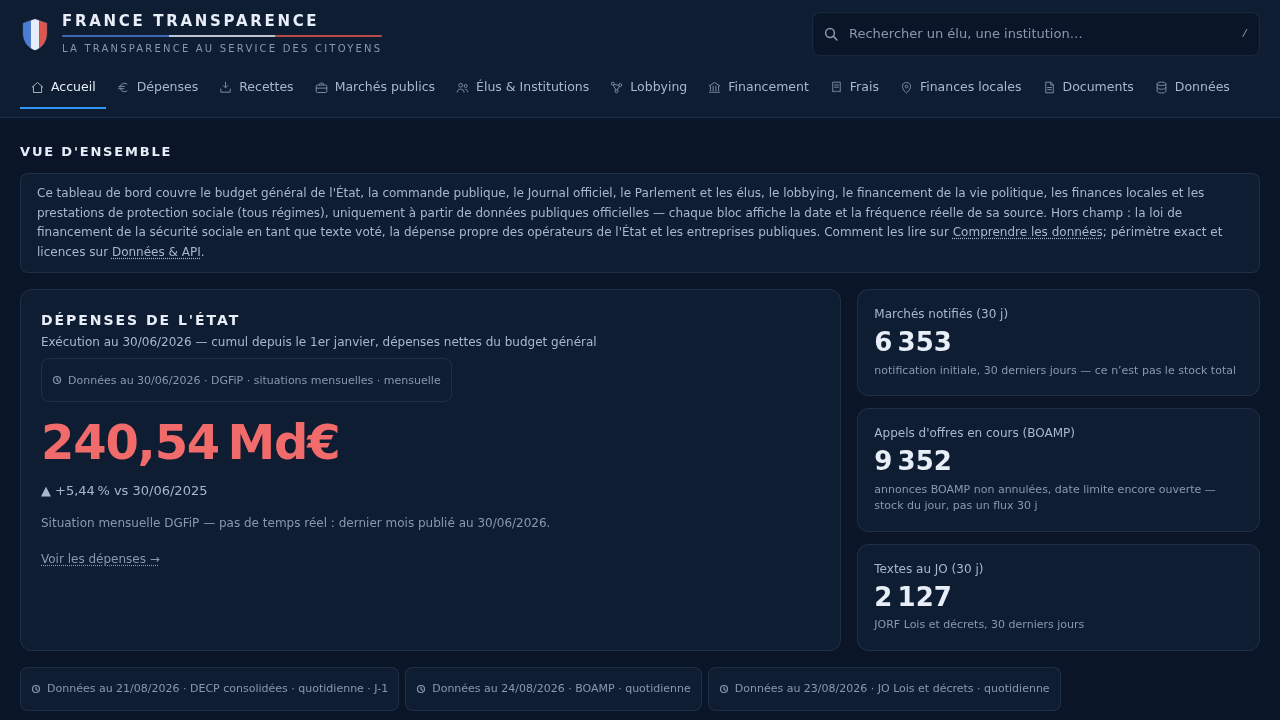
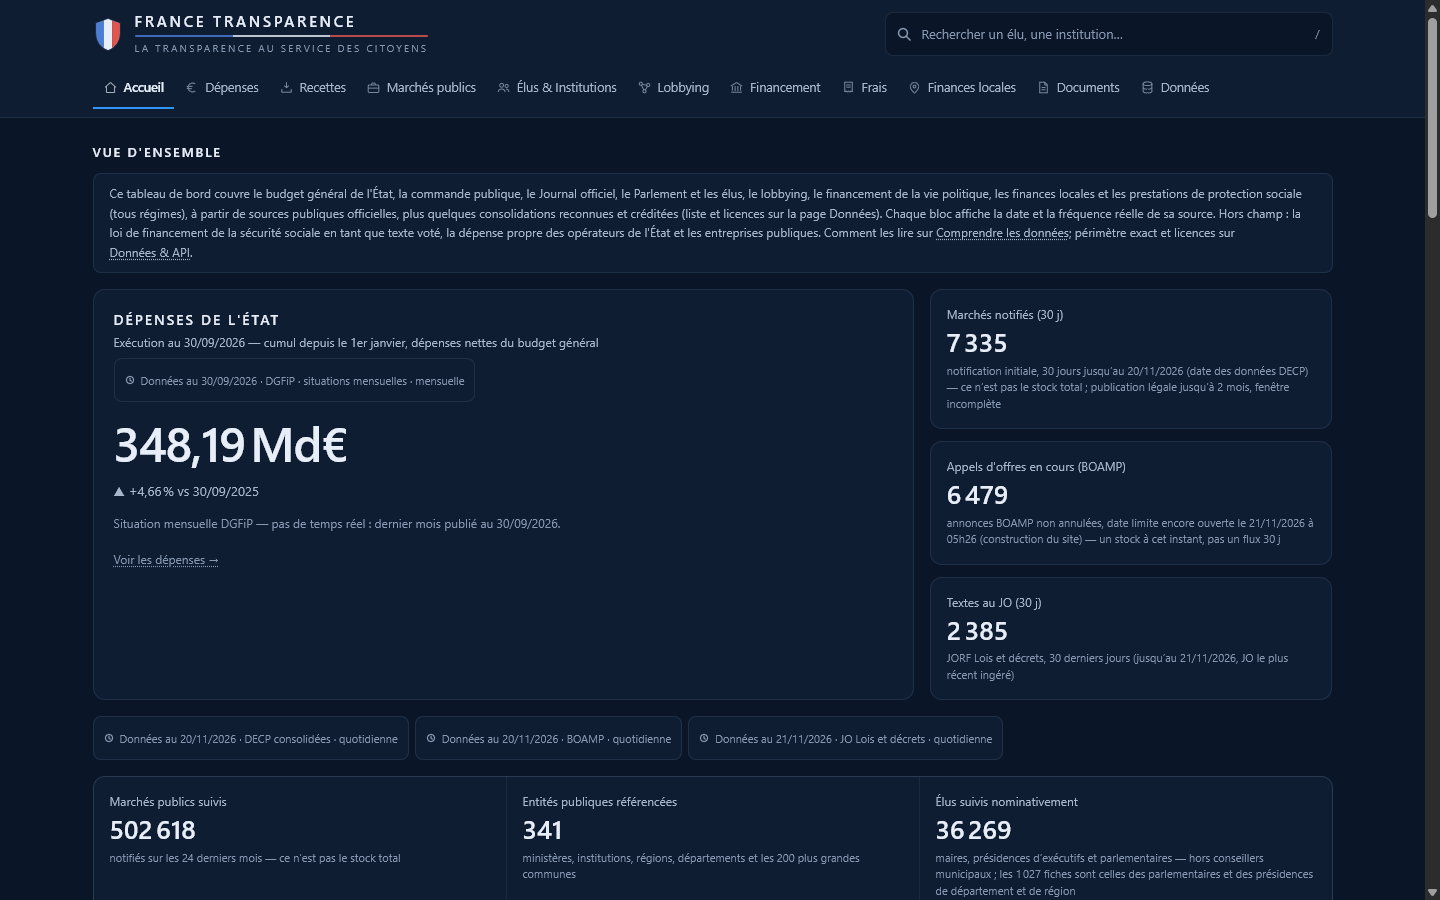
README : sections dans l'ordre d'un projet de données publiques, et captures de l'accueil et de /donnees prises le 21/11 à la place de celles du 24/08
Badges de licence, de CI et du site, sommaire, principes, sources et méthode, schéma de la chaîne, démarrage rapide, tests, contribution, signalement, sécurité, licences et documentation. Les faits du README sont inchangés. Les 30 captures d'avant le 20/11, que plus aucun document ne cite, sont retirées.

diff --git a/README.md b/README.md
@@ -1,10 +1,30 @@
 # France Transparence
 
-Site d'information sur l'argent public et la vie politique en France, en ligne sur **https://francetransparence.fr**. Il rassemble des publications de l'État, des assemblées et des autorités indépendantes, et affiche pour chacune son producteur, sa licence et la date réelle de ses données.
+Site d'information sur l'argent public et la vie politique en France. Il rassemble des publications de l'État, des assemblées et des autorités indépendantes, et affiche pour chacune son producteur, sa licence et la date réelle de ses données.
 
-Les données viennent de **sources publiques officielles, plus quelques consolidations reconnues et créditées**. Elles sont étiquetées comme telles sur la page [`/donnees`](https://francetransparence.fr/donnees/) (voir « D'où viennent les données »).
+**Site : https://francetransparence.fr**
 
-Le site publie des données et leurs règles de calcul. Il ne porte aucun jugement sur les personnes. Un indicateur dit ce qu'il mesure, avec sa règle et sa base légale, et rien de plus.
+[![Licence du code : AGPL-3.0-or-later](https://img.shields.io/badge/licence%20du%20code-AGPL--3.0--or--later-blue)](LICENSE)
+[![CI publication](https://github.com/koutakou/france-transparence/actions/workflows/publication.yml/badge.svg)](https://github.com/koutakou/france-transparence/actions/workflows/publication.yml)
+[![Site : francetransparence.fr](https://img.shields.io/badge/site-francetransparence.fr-002395)](https://francetransparence.fr)
+
+![Accueil de francetransparence.fr : la navigation en onze onglets, la vue d'ensemble et les premiers blocs de chiffres, chacun avec la date de ses données](docs/screenshots/accueil.png)
+
+*Accueil de francetransparence.fr, le 21/11/2026.*
+
+## Sommaire
+
+- [Ce que montre le site](#ce-que-montre-le-site)
+- [Principes](#principes)
+- [Sources et méthode](#sources-et-méthode)
+- [Architecture](#architecture)
+- [Démarrage rapide](#démarrage-rapide)
+- [Tests](#tests)
+- [Contribuer](#contribuer)
+- [Signaler une erreur](#signaler-une-erreur)
+- [Sécurité](#sécurité)
+- [Licences et crédits](#licences-et-crédits)
+- [Documentation](#documentation)
 
 ## Ce que montre le site
 
@@ -28,9 +48,17 @@ Hors navigation : `/alertes` (indicateurs calculés, chacun avec sa règle), `/c
 
 Les volumes (nombre d'élus, de marchés, de textes) changent à chaque ingestion. Ils ne sont pas recopiés ici : la seule valeur qui fait foi est celle que le site affiche, avec la date de ses données.
 
-## D'où viennent les données
+## Principes
 
-**44 sources**, une ligne chacune dans la table `meta_sources` de la base et dans le catalogue de [`/donnees`](https://francetransparence.fr/donnees/), reconstruit à chaque publication. Le référentiel (périmètre, pièges, limites de chaque source) est [docs/SOURCES.md](docs/SOURCES.md).
+- **Des sources publiques officielles, plus quelques consolidations reconnues et créditées.** C'est la promesse affichée sur [`/donnees`](https://francetransparence.fr/donnees/), qui étiquette comme telles les sources qui ne sont pas des publications officielles directes (voir [Sources et méthode](#sources-et-méthode)).
+- **La date réelle des données.** Chaque page dit la date de ses données, pas seulement celle de la construction du site. Rien n'est mis à jour « en direct » : aucune source publique ne le permet.
+- **La règle affichée.** Un indicateur dit ce qu'il mesure, avec sa règle et sa base légale, et rien de plus.
+- **Aucun jugement sur les personnes.** Le site publie des données et leurs règles de calcul.
+- **Aucun cookie ni traceur.** Les journaux du serveur et leurs durées sont décrits sur [/donnees-personnelles](https://francetransparence.fr/donnees-personnelles/).
+
+## Sources et méthode
+
+**44 sources** au 21/11/2026, une ligne chacune dans la table `meta_sources` de la base et dans le catalogue de [`/donnees`](https://francetransparence.fr/donnees/), reconstruit à chaque publication. Le référentiel (périmètre, pièges, limites de chaque source) est [docs/SOURCES.md](docs/SOURCES.md).
 
 Producteurs principaux : DILA (Journal officiel, BOAMP, dossiers législatifs), Assemblée nationale, Sénat, HATVP, ministère de l'Intérieur (Répertoire national des élus), DGFiP, OFGL, CNCCFP, CADA, INSEE, DREES, Eurostat, Autorité de la concurrence, registre de transparence de l'Union européenne.
 
@@ -42,24 +70,47 @@ Trois sources portent une étiquette particulière : deux consolidations non off
 | S7-DATAN | Consolidation reconnue, non officielle | Scores calculés par l'association Datan à partir des données de l'Assemblée nationale, affichés à côté du taux calculé par le site |
 | S31 | Officielle, recopiée à la main | Chiffres recopiés de documents officiels (textes, rapports, PDF publics), sans jeu de données ouvert lisible par machine, chacun cité avec son adresse |
 
-Rien n'est mis à jour « en direct » : aucune source publique ne le permet. Chaque page dit la date de ses données, et la fraîcheur de chaque source est mesurée contre un seuil (`app/src/lib/fraicheur.ts`).
+La fraîcheur de chaque source est mesurée contre un seuil propre à la source (`app/src/lib/fraicheur.ts`).
 
-## Comment c'est construit et publié
+![Page Données de francetransparence.fr : la promesse sur les sources, l'état de fraîcheur et le catalogue, avec l'étiquette de la source S1](docs/screenshots/donnees.png)
+
+*Page Données de francetransparence.fr, le 21/11/2026.*
+
+### Limites connues
+
+Chaque page dit ses limites, et [`/comprendre`](https://francetransparence.fr/comprendre/) les rassemble. Les principales :
+
+- Les montants d'accords-cadres sont des maximums contractuels, pas des paiements. Le site écrit « marchés notifiés », jamais « dépensé ».
+- Les données essentielles des marchés publics (DECP) arrivent avec une latence légale de publication qui peut atteindre deux mois.
+- Les notes de frais des parlementaires ne sont pas publiées et ne relèvent pas du droit d'accès aux documents administratifs. `/frais` montre les barèmes et les contrôles publiés, avec leurs textes.
+- Le budget de l'État est publié chaque mois avec environ six semaines de décalage.
+- L'outre-mer n'est pas rendu sur la carte, mais il figure dans les tableaux et les agrégats.
+
+## Architecture
+
+```mermaid
+flowchart LR
+    S["Sources publiques<br/>des producteurs"] --> P["pipelines/<br/>Python"]
+    P --> R["data/raw/<br/>fichiers bruts en cache"]
+    P --> D[("data/france.db<br/>SQLite")]
+    D --> A["app/<br/>Next.js, export statique"]
+    A --> N["nginx<br/>francetransparence.fr"]
+```
 
 1. `pipelines/` (Python) télécharge les sources dans `data/raw/` et les transforme. Chaque pipeline est une cible `make ingest-<nom>`. La liste fait autorité dans la variable `PIPELINES` du `Makefile` (`make pipelines` l'affiche).
 2. Tout aboutit dans une seule base SQLite, `data/france.db`, qui n'est pas versionnée. Chaque ingestion réussie écrit sa ligne dans `meta_sources` (date des données, licence, fréquence).
 3. L'application Next.js (`app/`) lit cette base en lecture seule et produit un **export statique** (`FT_EXPORT=1`) : toutes les pages sont écrites au build, sans appel réseau à l'exécution.
 4. En production, **nginx sert cet export**. Aucun processus Node ne tourne.
 
-**Publication.** Le serveur reconstruit le site chaque nuit vers 05:17, heure de Paris (minuterie systemd `ft-deploy.timer`, décalage aléatoire de 10 minutes au plus). Le script `ft-deploy` met le dépôt à jour, vérifie l'identité de déploiement, ingère toutes les sources, joue les tests, construit l'export, le contrôle, puis bascule le lien `current` vers la nouvelle version. Si une étape échoue, rien ne bascule : la version précédente reste servie et une alerte part. Ces scripts vivent sur le serveur et ne sont pas versionnés ici. Leur description publique est le [RUNBOOK](docs/deploiement/RUNBOOK.md).
+**Publication nocturne.** Le serveur reconstruit le site chaque nuit vers 05:17, heure de Paris (minuterie systemd `ft-deploy.timer`, décalage aléatoire de 10 minutes au plus). Le script `ft-deploy` met le dépôt à jour, vérifie l'identité de déploiement, ingère toutes les sources, joue les tests, construit l'export, le contrôle, puis bascule le lien `current` vers la nouvelle version. Si une étape échoue, rien ne bascule : la version précédente reste servie et une alerte part. Ces scripts vivent sur le serveur et ne sont pas versionnés ici. Leur description publique est le [RUNBOOK](docs/deploiement/RUNBOOK.md).
 
-**Validation.** La CI GitHub (`.github/workflows/publication.yml`) ne publie rien. Une exécution est programmée chaque jour à 04:45 UTC, après le cycle du serveur (le départ réel a souvent lieu plusieurs heures plus tard). Elle rejoue la chaîne complète dans une base neuve : ingestion, tests, lint, types, build, contrôles. Sur chaque proposition de fusion, elle joue les mêmes étapes avant que le code n'atteigne `main`, en réutilisant la base en cache quand l'empreinte des pipelines et de `requirements.txt` n'a pas changé. Un second workflow, `vigie.yml`, lit le site en ligne une fois par jour et ouvre une issue s'il est figé.
+**Une CI qui valide sans publier.** La CI GitHub (`.github/workflows/publication.yml`) ne publie rien. Une exécution est programmée chaque jour à 04:45 UTC, après le cycle du serveur (le départ réel a souvent lieu plusieurs heures plus tard). Elle rejoue la chaîne complète dans une base neuve : ingestion, tests, lint, types, build, contrôles. Sur chaque proposition de fusion, elle joue les mêmes étapes avant que le code n'atteigne `main`, en réutilisant la base en cache quand l'empreinte des pipelines et de `requirements.txt` n'a pas changé. Un second workflow, `vigie.yml`, lit le site en ligne une fois par jour et ouvre une issue s'il est figé.
 
 L'ancienne adresse GitHub Pages ne porte plus qu'une page de redirection vers le domaine (`pages-redirection/`).
 
-## Reproduire en local
+## Démarrage rapide
 
-Prérequis : Python 3.14 (celui du `Makefile`, de la CI et du serveur), Node.js 24 ou plus (celui de la CI), `make`. Tant que le job `tests-python-3-10` existe, le code des pipelines et `requirements.txt` doivent rester compatibles avec Python 3.10 (voir l'en-tête de `requirements.txt`). Ce job n'est pas un check requis : vérifier son résultat sur chaque proposition de fusion.
+Prérequis : Python 3.14 (celui du `Makefile`, de la CI et du serveur), Node.js 24 ou plus (celui de la CI), `make`.
 
 ```bash
 make venv          # crée .venv avec les versions figées de requirements.txt
@@ -68,7 +119,7 @@ make app-install   # installe les dépendances de app/
 make dev           # http://localhost:3620
 ```
 
-`make ingest` télécharge beaucoup et prend du temps (plus de 1 Go de fichiers bruts, mesuré le 24/08/2026) : les fichiers bruts restent en cache dans `data/raw/`, et la commande se rejoue sans risque. Un seul pipeline : `make ingest-<nom>`.
+`make ingest` télécharge beaucoup et prend du temps (plus de 1 Go de fichiers bruts, mesuré le 24/08/2026). Les fichiers bruts restent en cache dans `data/raw/`, et la commande se rejoue sans risque. Un seul pipeline : `make ingest-<nom>`.
 
 La forme servie en production se reproduit ainsi :
 
@@ -87,38 +138,40 @@ make test                                         # pipelines, suite pytest comp
 cd app && npm test && npm run lint && npm run typecheck
 ```
 
-Les tests de transformation tournent hors ligne sur des fixtures figées dans `pipelines/tests/fixtures/`. La CI joue aussi les tests des pipelines sous Python 3.10 (job `tests-python-3-10`).
+Les tests de transformation tournent hors ligne sur des fixtures figées dans `pipelines/tests/fixtures/`.
 
-## Limites connues
+Tant que le job `tests-python-3-10` existe, le code des pipelines et `requirements.txt` doivent rester compatibles avec Python 3.10 (voir l'en-tête de `requirements.txt`). La CI joue les tests des pipelines sous Python 3.10 dans ce job. Ce n'est pas un check requis : vérifier son résultat sur chaque proposition de fusion.
 
-Chaque page dit ses limites, et [`/comprendre`](https://francetransparence.fr/comprendre/) les rassemble. Les principales :
+## Contribuer
 
-- Les montants d'accords-cadres sont des maximums contractuels, pas des paiements. Le site écrit « marchés notifiés », jamais « dépensé ».
-- Les données essentielles des marchés publics (DECP) arrivent avec une latence légale de publication qui peut atteindre deux mois.
-- Les notes de frais des parlementaires ne sont pas publiées et ne relèvent pas du droit d'accès aux documents administratifs. `/frais` montre les barèmes et les contrôles publiés, avec leurs textes.
-- Le budget de l'État est publié chaque mois avec environ six semaines de décalage.
-- L'outre-mer n'est pas rendu sur la carte, mais il figure dans les tableaux et les agrégats.
+Du code ou une source à proposer : voir [CONTRIBUTING.md](CONTRIBUTING.md), qui donne aussi les règles qui font refuser une contribution. Les gabarits d'issue sont dans [`.github/ISSUE_TEMPLATE/`](.github/ISSUE_TEMPLATE/).
 
-Le site ne dépose aucun cookie et n'utilise aucun traceur. Les journaux du serveur et leurs durées sont décrits sur [/donnees-personnelles](https://francetransparence.fr/donnees-personnelles/).
+## Signaler une erreur
 
-## Licences
+- **Une donnée affichée est fausse** : ouvrir une issue avec le gabarit « Erreur dans une donnée affichée », en joignant la source officielle. Aucune donnée ne vit dans le dépôt : la correction passe par le pipeline, ou par un signalement au producteur si c'est l'amont qui se trompe.
+- **Une demande qui vous concerne personnellement** : jamais par issue publique, mais par le canal indiqué sur [/donnees-personnelles](https://francetransparence.fr/donnees-personnelles/).
+
+## Sécurité
+
+Une faille de sécurité se signale en privé, jamais par issue publique : voir [SECURITY.md](SECURITY.md).
+
+## Licences et crédits
 
 - **Code** : AGPL-3.0-or-later ([LICENSE](LICENSE)).
 - **Données** : chaque source garde la licence de son producteur, pour l'essentiel la Licence Ouverte 2.0 (Etalab). La licence de chaque source est affichée sur `/donnees`. S31 n'a pas de licence ouverte : ce sont des chiffres cités de documents officiels. Détails : [LICENSES.md](LICENSES.md).
 - **Crédits** : consolidation DECP par le projet `decp-processing` de Colin Maudry, scores de l'association Datan, fonds de carte france-geojson (Grégoire David) et contours Etalab.
 
-## Signaler une erreur, contribuer
-
-- **Une donnée affichée est fausse** : ouvrir une issue avec le gabarit « Erreur dans une donnée affichée », en joignant la source officielle. Aucune donnée ne vit dans le dépôt : la correction passe par le pipeline, ou par un signalement au producteur si c'est l'amont qui se trompe.
-- **Une demande qui vous concerne personnellement** : jamais par issue publique, par le canal indiqué sur [/donnees-personnelles](https://francetransparence.fr/donnees-personnelles/).
-- **Une faille de sécurité** : en privé, voir [SECURITY.md](SECURITY.md).
-- **Du code, une source à proposer** : [CONTRIBUTING.md](CONTRIBUTING.md), qui donne aussi les règles qui font refuser une contribution.
-
 ## Documentation
 
-- [STATUS.md](STATUS.md) : état courant. [JOURNAL.md](JOURNAL.md) : décisions datées.
-- [docs/ARCHITECTURE.md](docs/ARCHITECTURE.md) : flux de données et invariants. [docs/SCHEMA-DB.md](docs/SCHEMA-DB.md) : schéma de la base.
-- [docs/deploiement/RUNBOOK.md](docs/deploiement/RUNBOOK.md) : exploitation du serveur. [docs/deploiement/DECISION.md](docs/deploiement/DECISION.md) : choix d'hébergement.
-- [docs/ACTIONS-HUMAINES.md](docs/ACTIONS-HUMAINES.md) : ce qui demande un geste sur le serveur ou sur GitHub.
-- [docs/REDIRECTIONS-ELUS.md](docs/REDIRECTIONS-ELUS.md) : redirections des fiches d'élus fusionnées.
-- [docs/RAPPORT-MISSION.md](docs/RAPPORT-MISSION.md) : journal de construction des 19 et 20/08/2026, daté et non réécrit.
+| Document | Contenu |
+|---|---|
+| [STATUS.md](STATUS.md) | État courant |
+| [JOURNAL.md](JOURNAL.md) | Décisions datées |
+| [docs/SOURCES.md](docs/SOURCES.md) | Référentiel des sources : périmètre, pièges, limites |
+| [docs/ARCHITECTURE.md](docs/ARCHITECTURE.md) | Flux de données et invariants |
+| [docs/SCHEMA-DB.md](docs/SCHEMA-DB.md) | Schéma de la base |
+| [docs/deploiement/RUNBOOK.md](docs/deploiement/RUNBOOK.md) | Exploitation du serveur |
+| [docs/deploiement/DECISION.md](docs/deploiement/DECISION.md) | Choix d'hébergement |
+| [docs/ACTIONS-HUMAINES.md](docs/ACTIONS-HUMAINES.md) | Ce qui demande un geste sur le serveur ou sur GitHub |
+| [docs/REDIRECTIONS-ELUS.md](docs/REDIRECTIONS-ELUS.md) | Redirections des fiches d'élus fusionnées |
+| [docs/RAPPORT-MISSION.md](docs/RAPPORT-MISSION.md) | Journal de construction des 19 et 20/08/2026, daté et non réécrit |
